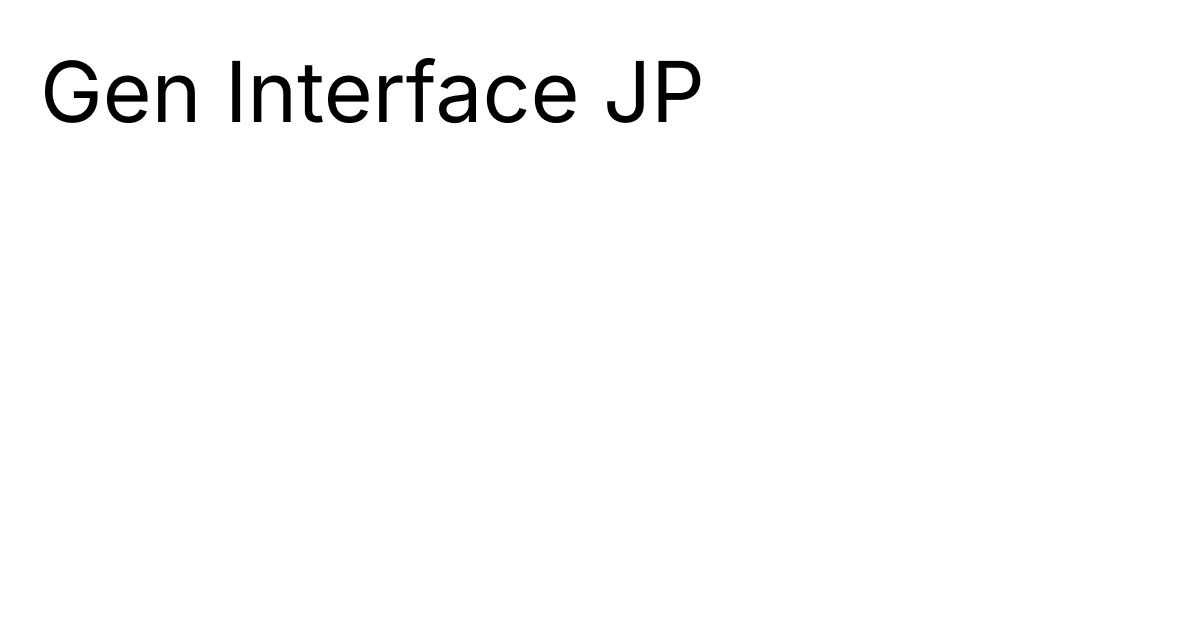
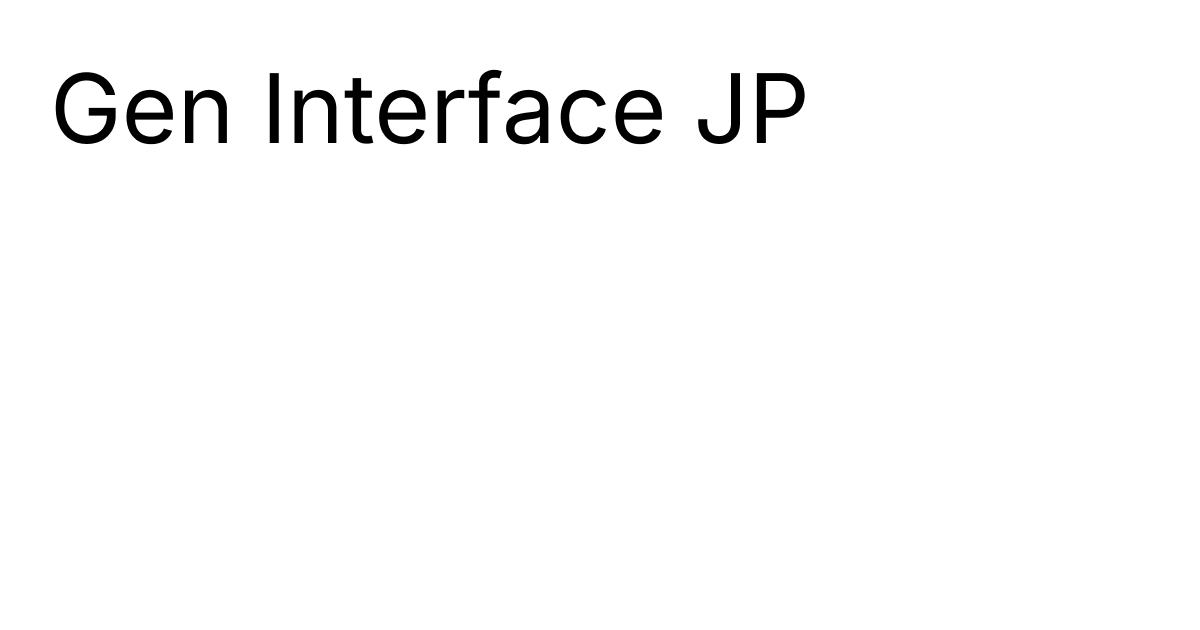
Footer: tighten credit labels, add GitHub row + portfolio link
Drop "by:" suffix from font labels so "Noto Sans:" / "Inter:" / "Gen
Interface JP:" share the rhythm. Move "Composed by" into the value side
of the new Gen Interface JP row, link Yamato Iizuka to yamatoiizuka.com,
and add a GitHub row pointing at the repo.

Refresh og-image.jpg.

Changed region(s): [[0.0308, 0.0905, 0.6783, 0.2413]]

diff --git a/site/src/sections/Footer.tsx b/site/src/sections/Footer.tsx
@@ -23,7 +23,7 @@ export function Footer() {
 
           <div className="footer__credits">
             <span className="footer__credit-label footer__credit-row-1-label">
-              Noto Sans by:
+              Noto Sans:
             </span>
             <span className="footer__credit-value footer__credit-row-1-value">
               {
@@ -31,16 +31,25 @@ export function Footer() {
               }
             </span>
             <span className="footer__credit-label footer__credit-row-2-label">
-              Inter by:
+              Inter:
             </span>
             <span className="footer__credit-value footer__credit-row-2-value">
               Rasmus Andersson
             </span>
             <span className="footer__credit-label footer__credit-row-3-label">
-              Composed by:
+              Gen Interface JP:
             </span>
             <span className="footer__credit-value footer__credit-row-3-value">
-              Yamato Iizuka with{" "}
+              Composed by{" "}
+              <a
+                className="footer__credit-link"
+                href="https://yamatoiizuka.com"
+                target="_blank"
+                rel="noreferrer"
+              >
+                Yamato Iizuka
+              </a>{" "}
+              with{" "}
               <a
                 className="footer__credit-link"
                 href="https://github.com/yamatoiizuka/ofl-font-baker"
@@ -48,6 +57,19 @@ export function Footer() {
                 rel="noreferrer"
               >
                 OFL Font Baker
+              </a>
+            </span>
+            <span className="footer__credit-label footer__credit-row-4-label">
+              GitHub:
+            </span>
+            <span className="footer__credit-value footer__credit-row-4-value">
+              <a
+                className="footer__credit-link"
+                href="https://github.com/yamatoiizuka/gen-interface-jp"
+                target="_blank"
+                rel="noreferrer"
+              >
+                yamatoiizuka/gen-interface-jp
               </a>
             </span>
           </div>